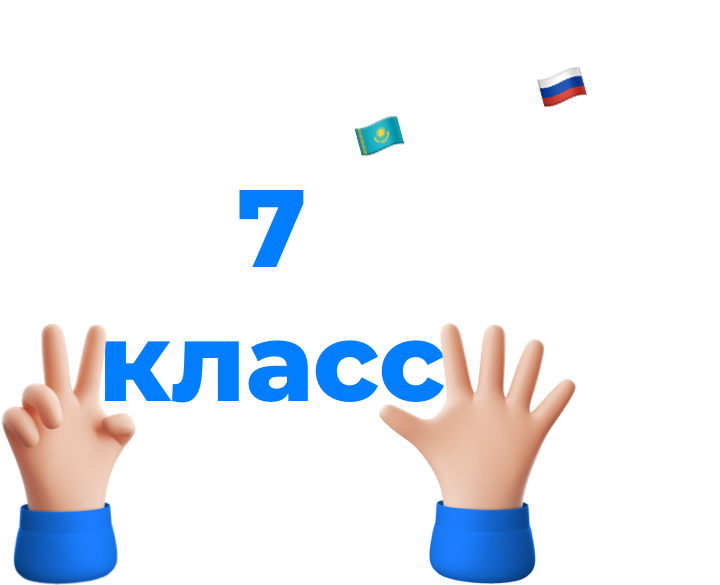
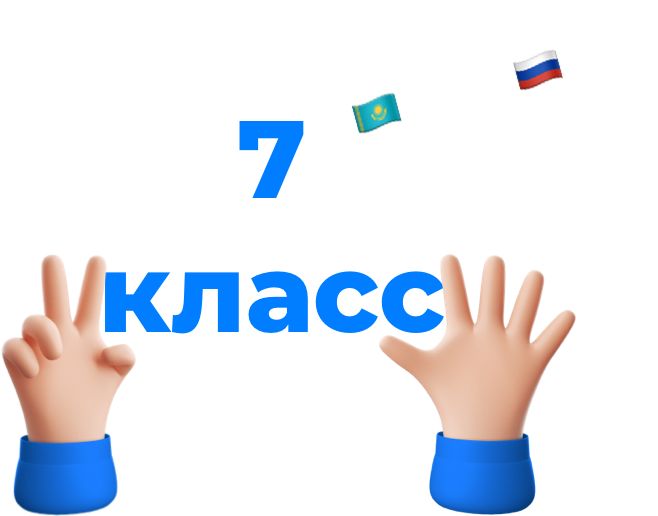
Добавил перевод анг7

Changed region(s): [[0.0, 0.4961, 0.8815, 1.0], [0.3343, 0.155, 0.6079, 0.4651], [0.7295, 0.093, 0.8511, 0.186]]

diff --git a/core/templates/pages/library-page/library-page.component.html b/core/templates/pages/library-page/library-page.component.html
@@ -65,10 +65,10 @@
           </div>
           <picture>
             <source type="image/png"
-                    ng-srcset="<[$ctrl.getStaticImageUrl('/landing/math/fractions/programming.png')]>">
-            <img ng-src="<[$ctrl.getStaticImageUrl('/assets/images/landing/math/fractions/programming.png')]>"
+                    ng-srcset="<[$ctrl.getStaticImageUrl('/landing/math/fractions/math5.png')]>">
+            <img ng-src="<[$ctrl.getStaticImageUrl('/assets/images/landing/math/fractions/math5.png')]>"
                  alt="math classroom illustration" style="
-    margin: 20px 10px 0px 30px; max-width: 44%;">
+    margin: 0px 10px 0px 30px; max-width: 44%;">
           </picture>
         </div>
 <div class="oppia-classroom-div" ng-if="$ctrl.CLASSROOM_PROMOS_ARE_ENABLED" style="
@@ -84,7 +84,7 @@
                     ng-srcset="<[$ctrl.getStaticImageUrl('/landing/math/fractions/math6.png')]>">
             <img ng-src="<[$ctrl.getStaticImageUrl('/assets/images/landing/math/fractions/math6.png')]>"
                  alt="math classroom illustration" style="
-    margin: 20px 10px 0px 30px; max-width: 44%;">
+    margin: 0px 10px 0px 30px; max-width: 44%;">
           </picture>
         </div>
 <div class="oppia-classroom-div" ng-if="$ctrl.CLASSROOM_PROMOS_ARE_ENABLED" >
@@ -100,7 +100,7 @@
                     ng-srcset="<[$ctrl.getStaticImageUrl('/landing/math/fractions/math7.png')]>">
             <img ng-src="<[$ctrl.getStaticImageUrl('/assets/images/landing/math/fractions/math7.png')]>"
                  alt="math classroom illustration" style="
-    margin: 20px 10px 0px 30px; max-width: 44%;">
+    margin: 0px 10px 0px 30px; max-width: 44%;">
           </picture>
         </div>
         <div ng-if="$ctrl.libraryGroups.length === 0"
